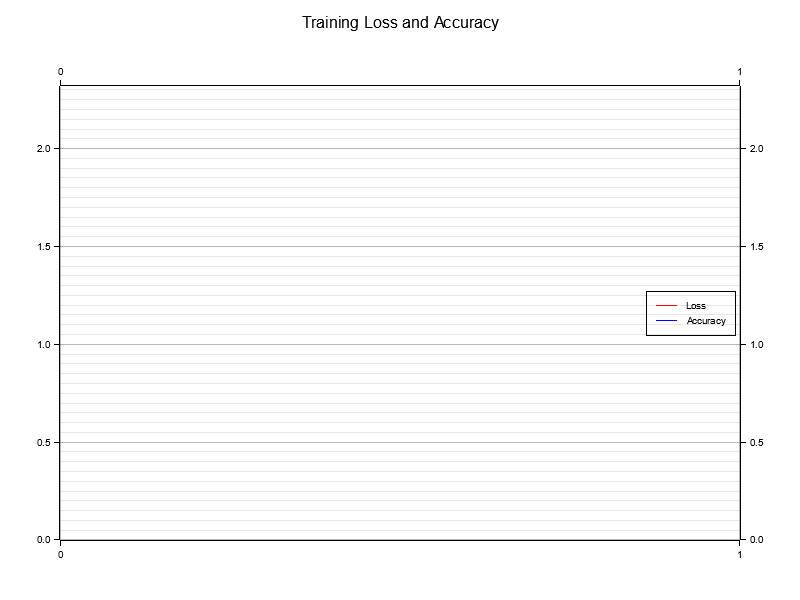
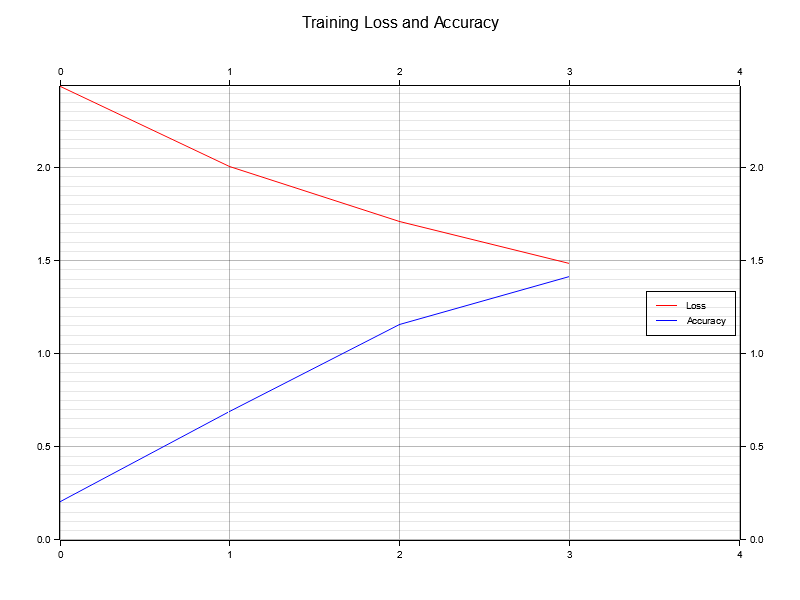
refactor code and update packages

Changed region(s): [[0.0312, 0.15, 0.9688, 0.87], [0.9375, 0.24, 0.9688, 0.3]]

diff --git a/src/main.rs b/src/main.rs
@@ -1,5 +1,6 @@
 use std::fs::File;
-use std::io::Read;
+use std::io::{BufReader, Read};
+use std::path::Path;
 use mnist::{Mnist, MnistBuilder};
 use ndarray::{s, Array, Array2, Array3};
 use plotters::prelude::*;
@@ -152,13 +153,16 @@ fn main() -> Result<(), Box<dyn Error>> {
     let mut accuracies = Vec::new();
 
     for epoch in 1..=epochs {
-        let x_train_tensor = Tensor::of_slice(x_train.as_slice().unwrap())
-            .to_device(vs.device())
-            .reshape(&[50_000, input_dim as i64]);
-        let y_train_tensor = Tensor::of_slice(y_train.as_slice().unwrap())
-            .to_device(vs.device())
-            .to_kind(Kind::Int64)
-            .reshape(&[50_000]);
+        let x_train_tensor = Tensor::f_from_slice(x_train.as_slice().unwrap())
+    .unwrap()  // This extracts the Tensor from the Result
+    .to_device(vs.device())
+    .reshape(&[50_000, input_dim as i64]);
+
+    let y_train_tensor = Tensor::f_from_slice(y_train.as_slice().unwrap())?
+    .to_device(vs.device())
+    .to_kind(Kind::Int64)
+    .reshape(&[50_000]);
+
 
         let preds = net.forward_t(&x_train_tensor, true);
         let loss = preds.cross_entropy_for_logits(&y_train_tensor);
@@ -171,15 +175,17 @@ fn main() -> Result<(), Box<dyn Error>> {
             .mean(Kind::Float)
             .double_value(&[]);
 
-        losses.push(f32::from(loss.shallow_clone()));
+            losses.push(loss.double_value(&[]) as f32);
+
         accuracies.push(accuracy as f32 * 100.0);
 
         println!(
             "Epoch: {:2} | Loss: {:.4} | Accuracy: {:.2}%",
             epoch,
-            f32::from(loss),
+            loss.double_value(&[]) as f32,
             accuracy * 100.0
         );
+        
     }
 
     plot_metrics(&losses, &accuracies)?;
